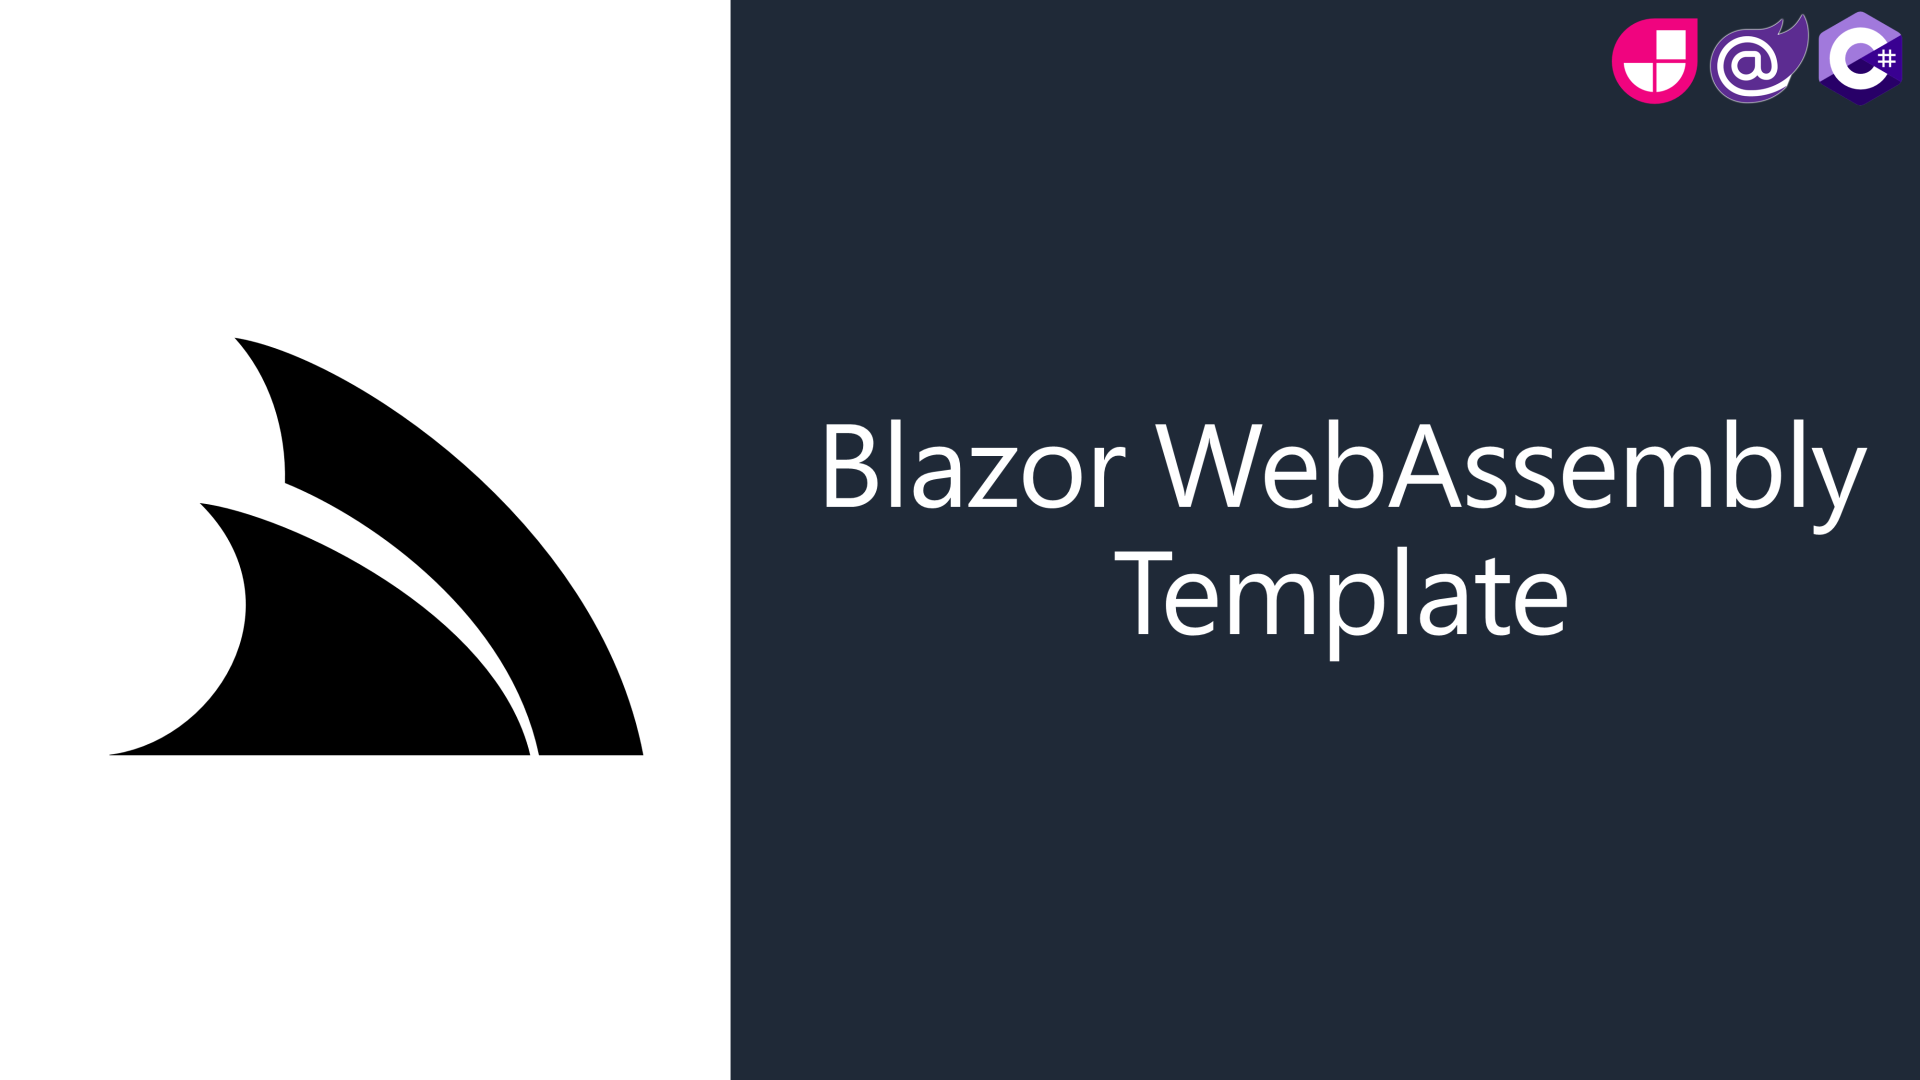
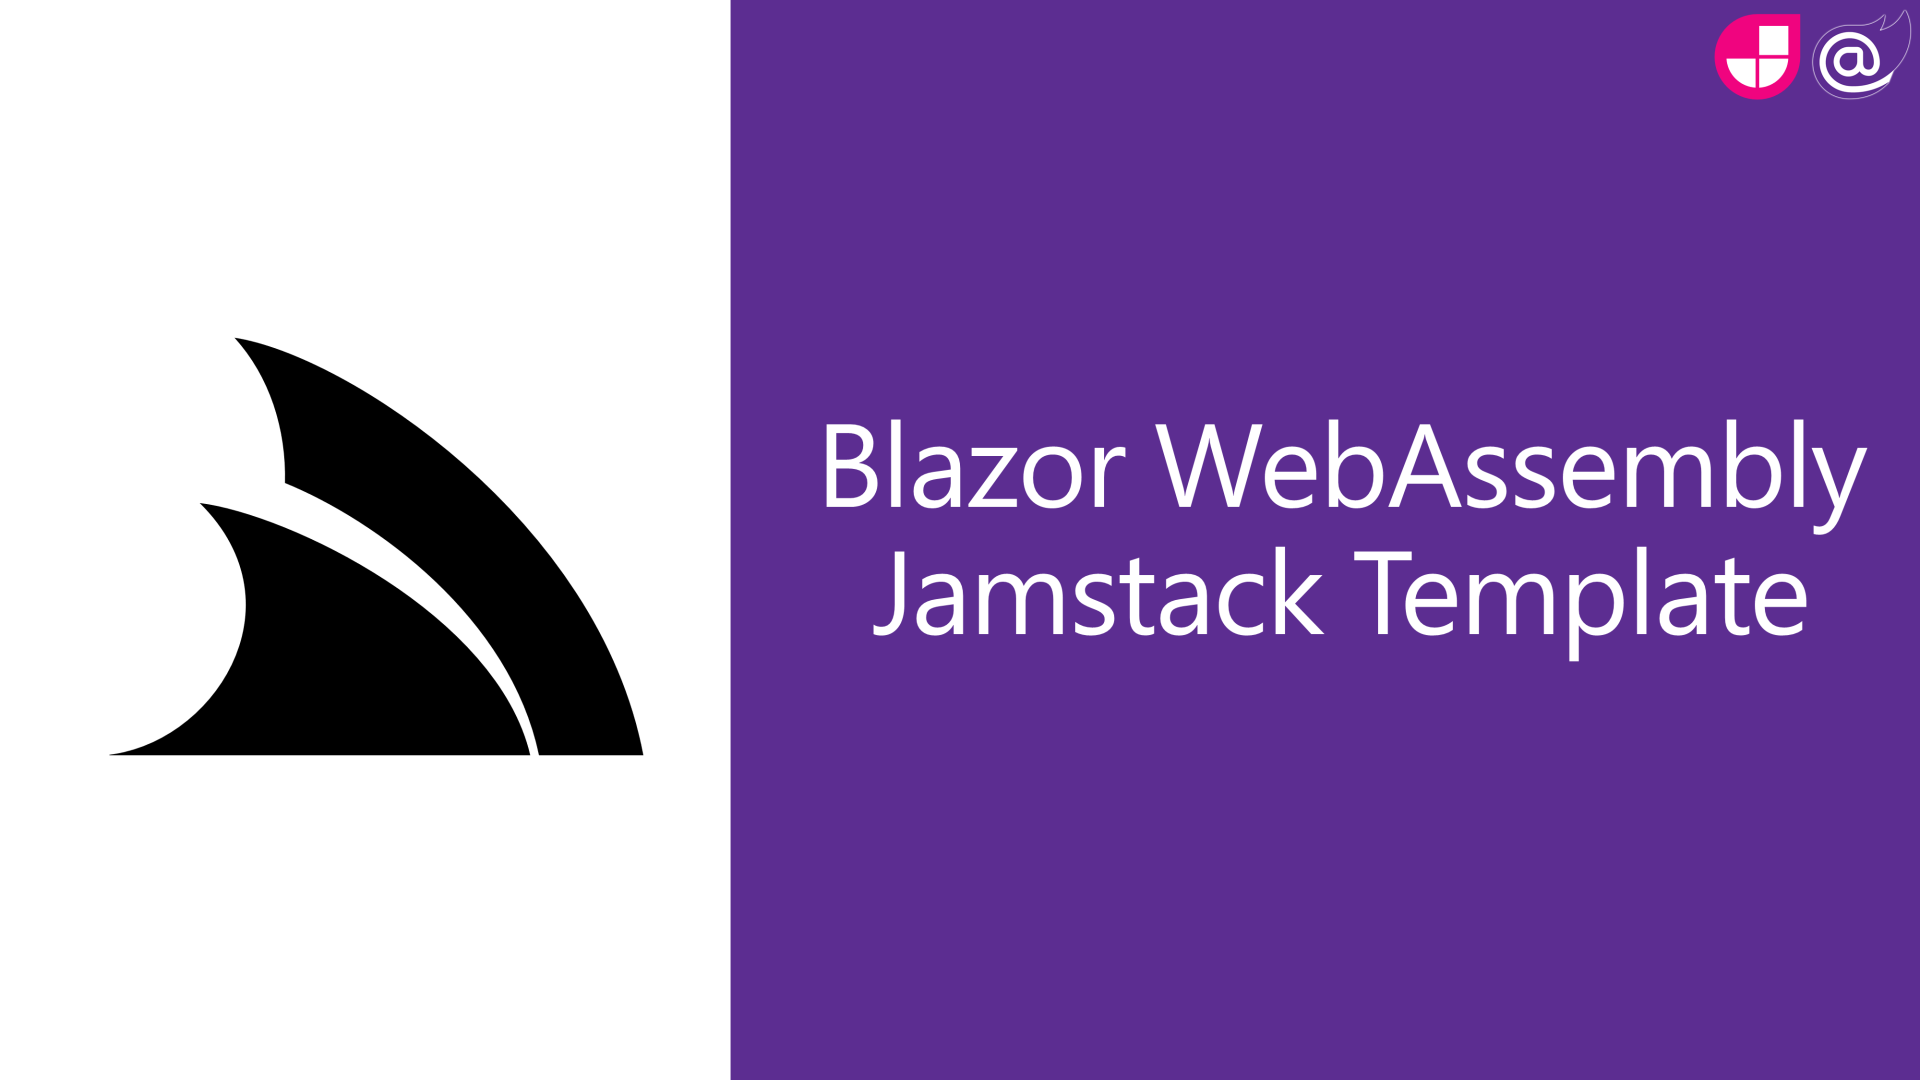
Update

diff --git a/_whatsnew/posts/2022-01-21-v6-0-release.md b/_whatsnew/posts/2022-01-21-v6-0-release.md
@@ -7,9 +7,9 @@ sitemap: false
 subtitle:
 - ServiceStack Free Licenses
 - New Built-in API Explorer
-- JamStacks.net Powered by Vue, Vite and ServiceStack
-- Blazor WASM Template
-- NextJS Powered By ServiceStack APIs
+- Vue3+Vite SSG Jamstack Template
+- Blazor WebAssembly Jamstack Template
+- NextJS Jamstack Template
 feature_url:
 - https://servicestack.net/free
 - /
